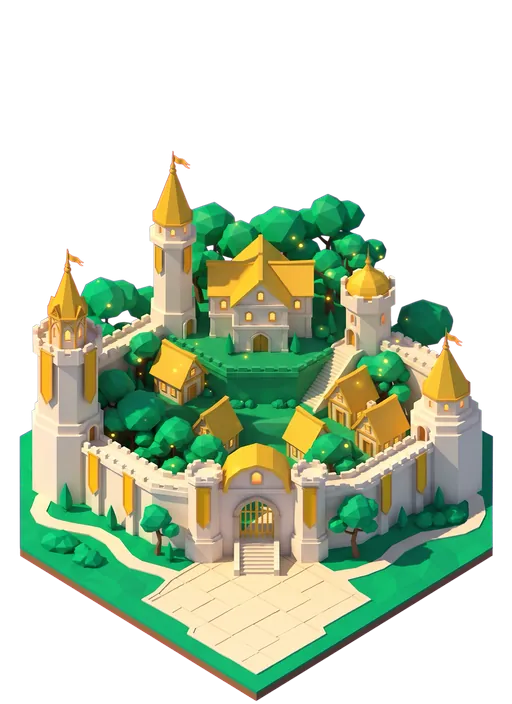
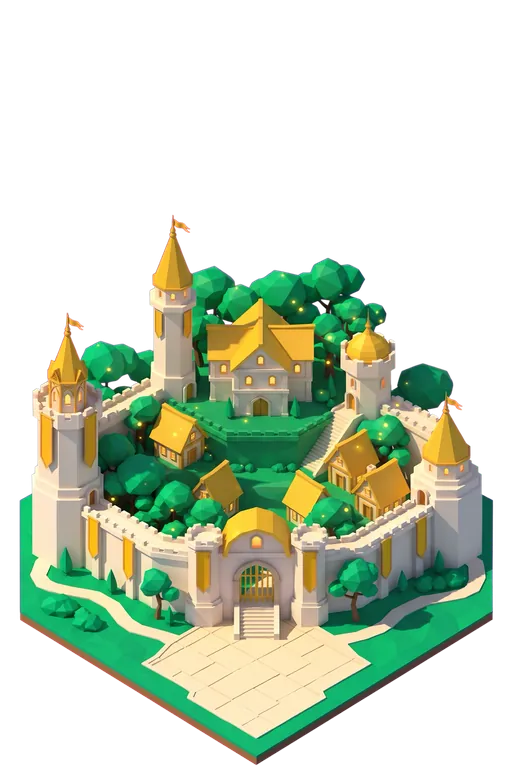
Re-render Dwarf and Orc city art; add canvas headroom
Dwarves are now fortresses carved into snow-capped peaks with forge gates;
Orcs get warmer rim light, larger lava rivers and big crimson banners so
they read on ash tiles. All city art moves to a 512x768 canvas so the Elf
T4 spire has headroom; badge anchors updated.

diff --git a/Eldermere/web/src/render/assets/cityMesh.ts b/Eldermere/web/src/render/assets/cityMesh.ts
@@ -885,7 +885,7 @@ function addCityWalls(
 const CITY_ART_BASE_URL = (import.meta.env?.BASE_URL ?? '/').replace(/\/?$/, '/');
 
 const CITY_ART_W = 512;
-const CITY_ART_H = 704;
+const CITY_ART_H = 768;
 const CITY_ART_HALF_W = 236;
 const CITY_ART_RATIO = 0.6157;
 const CITY_ART_CX = CITY_ART_W / 2;
@@ -906,10 +906,10 @@ const CITY_TIER_SCALE: Record<CityArtTier, number> = { 1: 0.86, 2: 0.93, 3: 1.0,
 
 /** Top of the painted silhouette in canvas px (measured by process.py) for badge placement. */
 const CITY_ART_TOP_PX: Record<FactionId, Record<CityArtTier, number>> = {
-  humans: { 1: 109, 2: 121, 3: 126, 4: 111 },
-  orcs: { 1: 181, 2: 152, 3: 115, 4: 115 },
-  elves: { 1: 194, 2: 151, 3: 114, 4: 3 },
-  dwarves: { 1: 239, 2: 141, 3: 134, 4: 117 },
+  humans: { 1: 173, 2: 185, 3: 190, 4: 175 },
+  orcs: { 1: 248, 2: 206, 3: 189, 4: 187 },
+  elves: { 1: 258, 2: 215, 3: 178, 4: 67 },
+  dwarves: { 1: 273, 2: 188, 3: 206, 4: 209 },
 };
 
 /**
